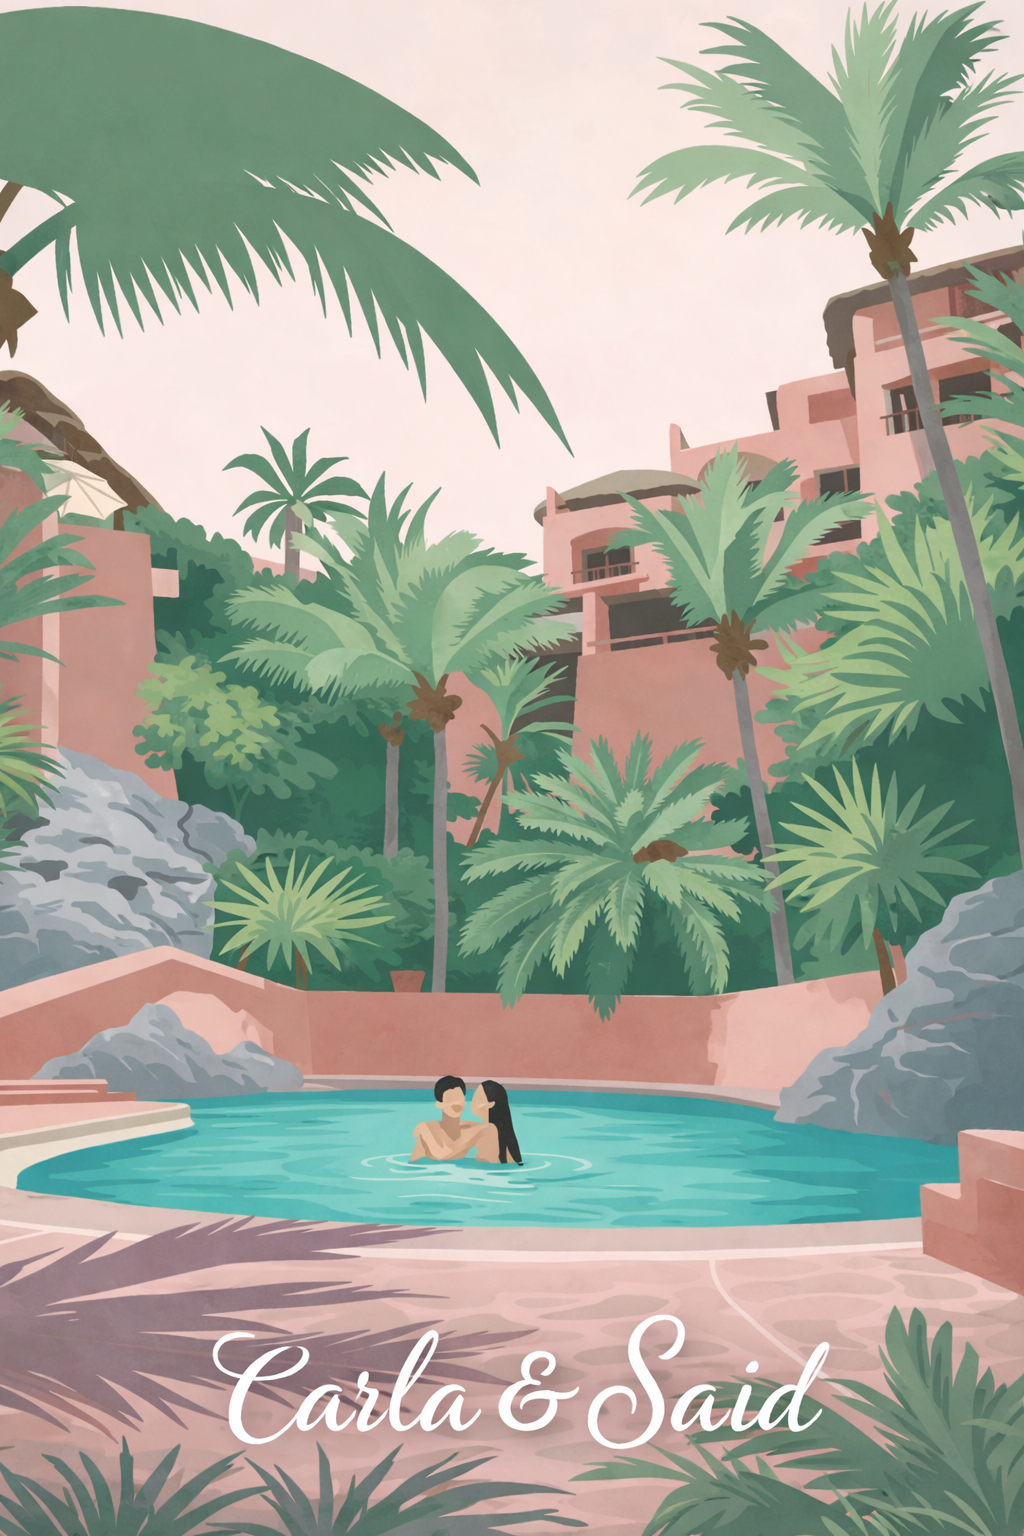
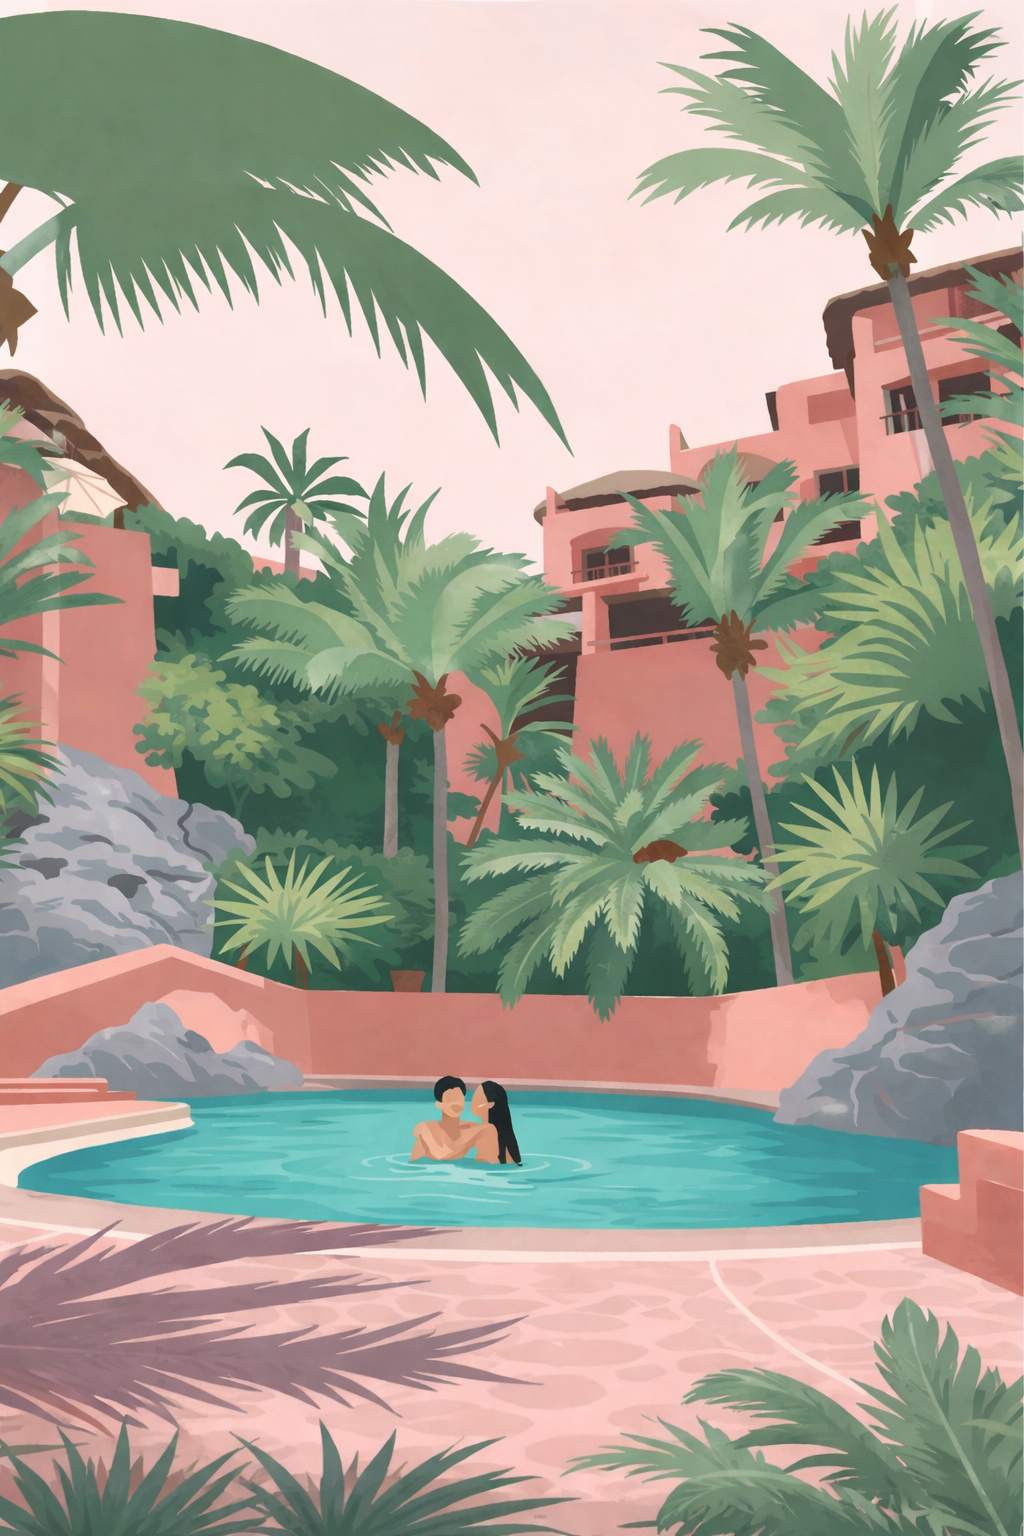
hasta abajo pon Carla & Said en cursiva bonita elegante

diff --git a/src/app/boda-carla-said/page.tsx b/src/app/boda-carla-said/page.tsx
@@ -743,7 +743,13 @@ export default function WeddingPage() {
         </div>
         
         {/* Espaciador inferior para mostrar el resto de la foto5 */}
-        <div className="h-[60vh] md:h-[100vh]" />
+        <div className="h-[60vh] md:h-[100vh] flex flex-col items-center justify-end pb-24 relative z-10">
+          <RevealSection delay={500}>
+            <p className={cn(script.className, "text-5xl md:text-8xl text-white drop-shadow-lg")}>
+              Carla & Said
+            </p>
+          </RevealSection>
+        </div>
       </section>
     </div>
   )
